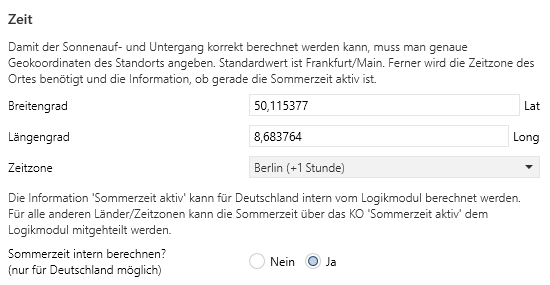
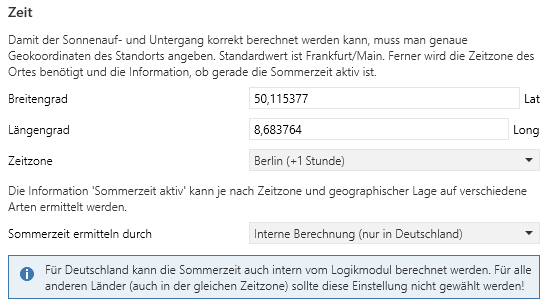
Prepare release
- Update documentation
- Update release application number

diff --git a/doc/Applikationsbeschreibung-Logik.md b/doc/Applikationsbeschreibung-Logik.md
@@ -23,9 +23,11 @@ gegliedert, wobei die Logikkanäle wiederum in bis zu 99 Kanäle untergliedert s
 
 Im folgenden werden Änderungen an dem Dokument erfasst, damit man nicht immer das Gesamtdokument lesen muss, um Neuerungen zu erfahren.
 
-06.01.2023: Firmware 1.3, Applikation 1.3
+07.01.2023: Firmware 1.3, Applikation 1.3
 
-
+* FIX: Ungültige Datum- und Zeit-Telegramme werden ignoriert und stellen die Zeit nicht mehr auf unsinnige Werte
+* FIX: Ein Datum mit einem Jahr vor 2022 wird ignoriert, das hilft, wenn beim System-Neustart erst mal veraltete Datum-Telegramme verschickt werden
+* NEU: Sommerzeit kann nicht nur über ein KO gesetzt oder intern berechnet werden (gilt nur für Deutschland), sondern auch aus einem DPT19-Telegramm ermittelt werden, sofern der KNX-Zeitgeber das unterstützt.
 
 30.12.2022: Firmware 1.2, Applikation 1.2
 
@@ -347,15 +349,16 @@ Das Logikmodul hat eine Zeitschaltuhr-Funktion, die einige globale Einstellungen
 
 <kbd>![Zeitangaben](pics/Zeit.PNG)</kbd>
 
-Für die korrekte Berechnung der Zeit für Sonnenauf- und -untergang werden die genauen Koordinaten des Standorts benötigt sowie auch die Zeitzone und die Information, gerade die Sommerzeit aktiv ist.
+Für die korrekte Berechnung der Zeit für Sonnenauf- und -untergang werden die genauen Koordinaten des Standorts benötigt sowie auch die Zeitzone und die Information, ob gerade die Sommerzeit aktiv ist.
 
 Die Geo-Koordinaten können bei Google Maps nachgeschaut werden, indem man mit der rechten Maustaste auf das Objekt klickt und die unten erscheinenden Koordinaten benutzt.
 
 Die Standard-Koordinaten stehen für Frankfurt am Main, Innenstadt.
 
-Ob gerade die Sommerzeit aktiv ist, muss dem Logikmodul über ein eigenes Kommunikationsobjekt mitgeteilt werden. Diese Information wird benötigt, da für die Berechnung der Zeiten von Sonnenauf- und -untergang immer UTC berechnet werden muss. Da das Modul keine Möglichkeit hat, von sich aus zu erkennen, ob die empfangene Zeit eine Sommer- oder Winterzeit ist, muss dies über das Sommerzeit-Kommunikationsobjekt angegeben werden.
+Ob gerade die Sommerzeit aktiv ist, kann dem Logikmodul auf unterschiedliche Arten mitgeteilt werden. Diese Information wird benötigt, da für die Berechnung der Zeiten von Sonnenauf- und -untergang immer in UTC erfolgt. 
+Zu dieser UTC-Zeit wird dann entsprechend die Zeitzone und die Sommerzeit hinzuaddiert.
 
-> Ausnahme: Für Deutschland kann die Sommerzeit auch lokal vom Logikmodul berechnet werden.
+> Information: Für Deutschland kann die Sommerzeit auch lokal vom Logikmodul berechnet werden.
 
 #### **Breitengrad**
 
@@ -369,9 +372,25 @@ In dem Feld wird der Längengrad des Standortes eingegeben.
 
 Für die korrekte Berechnung der Zeit wird die Zeitzone des Standortes benötigt.
 
-#### **Sommerzeit intern berechnen?**
+#### **Sommerzeit ermitteln durch**
 
-Für Deutschland kann das Logikmodul die Sommerzeit intern berechnen. Wird hier ein 'Ja' gewählt, wird anhand des Kalenderdatums berechnet, ob aktuell die Sommerzeit aktiv ist. Wird hier ein 'Nein' gewählt, wird das Kommunikationsobjekt "Sommerzeit aktiv" eingeblendet (wie auch bei allen anderen Zeitzonen). Über dieses Kommunikationsobjekt kann dem Logikmodul dann die Sommerzeit mitgeteilt werden.
+Hier kann man eine der verfügbaren Möglichkeiten auswählen, mit der das Logikmodul ermitteln kann, ob gerade die Sommerzeit aktiv ist.
+
+##### **Kommunikationsobjekt 'Sommerzeit aktiv'**
+
+Wird diese Option ausgewählt, muss über das Kommunikationsobjekt 'Sommerzeit aktiv' dem Logikmodul mitgeteilt werden, ob gerade die Sommerzeit aktiv ist.
+
+##### **Kombiniertem Datum/Zeit-KO (DPT 19)**
+
+Erscheint nur, wenn der Datum- bzw. Zeitempfang über ein kombiniertes Datum/Zeit-KO (DPT 19) gewählt worden ist.
+
+Wenn der Datum- bzw. Zeitempfang über ein kombiniertes Datum/Zeit-KO (DPT 19) gewählt worden ist, kann dieses Zeittelegramm auch die Information enthalten, ob gerade die Sommerzeit aktiv ist. Wenn der Zeitgeber im System diese Information mit dem DPT 19-Telegramm mitschicken kann, sollte diese Option gewählt werden.
+
+##### **Interne Berechnung (nur für Deutschland)**
+
+Erscheint nur, wenn die Zeitzone 'Berlin' gewählt worden ist.
+
+Diese Option kann nur für Deutschland genutzt werden. Sie ist nicht zu verwenden, falls man in der selben Zeitzone wie Deutschland ist, aber in einem anderen Land.
 
 ### **Urlaub**
 
